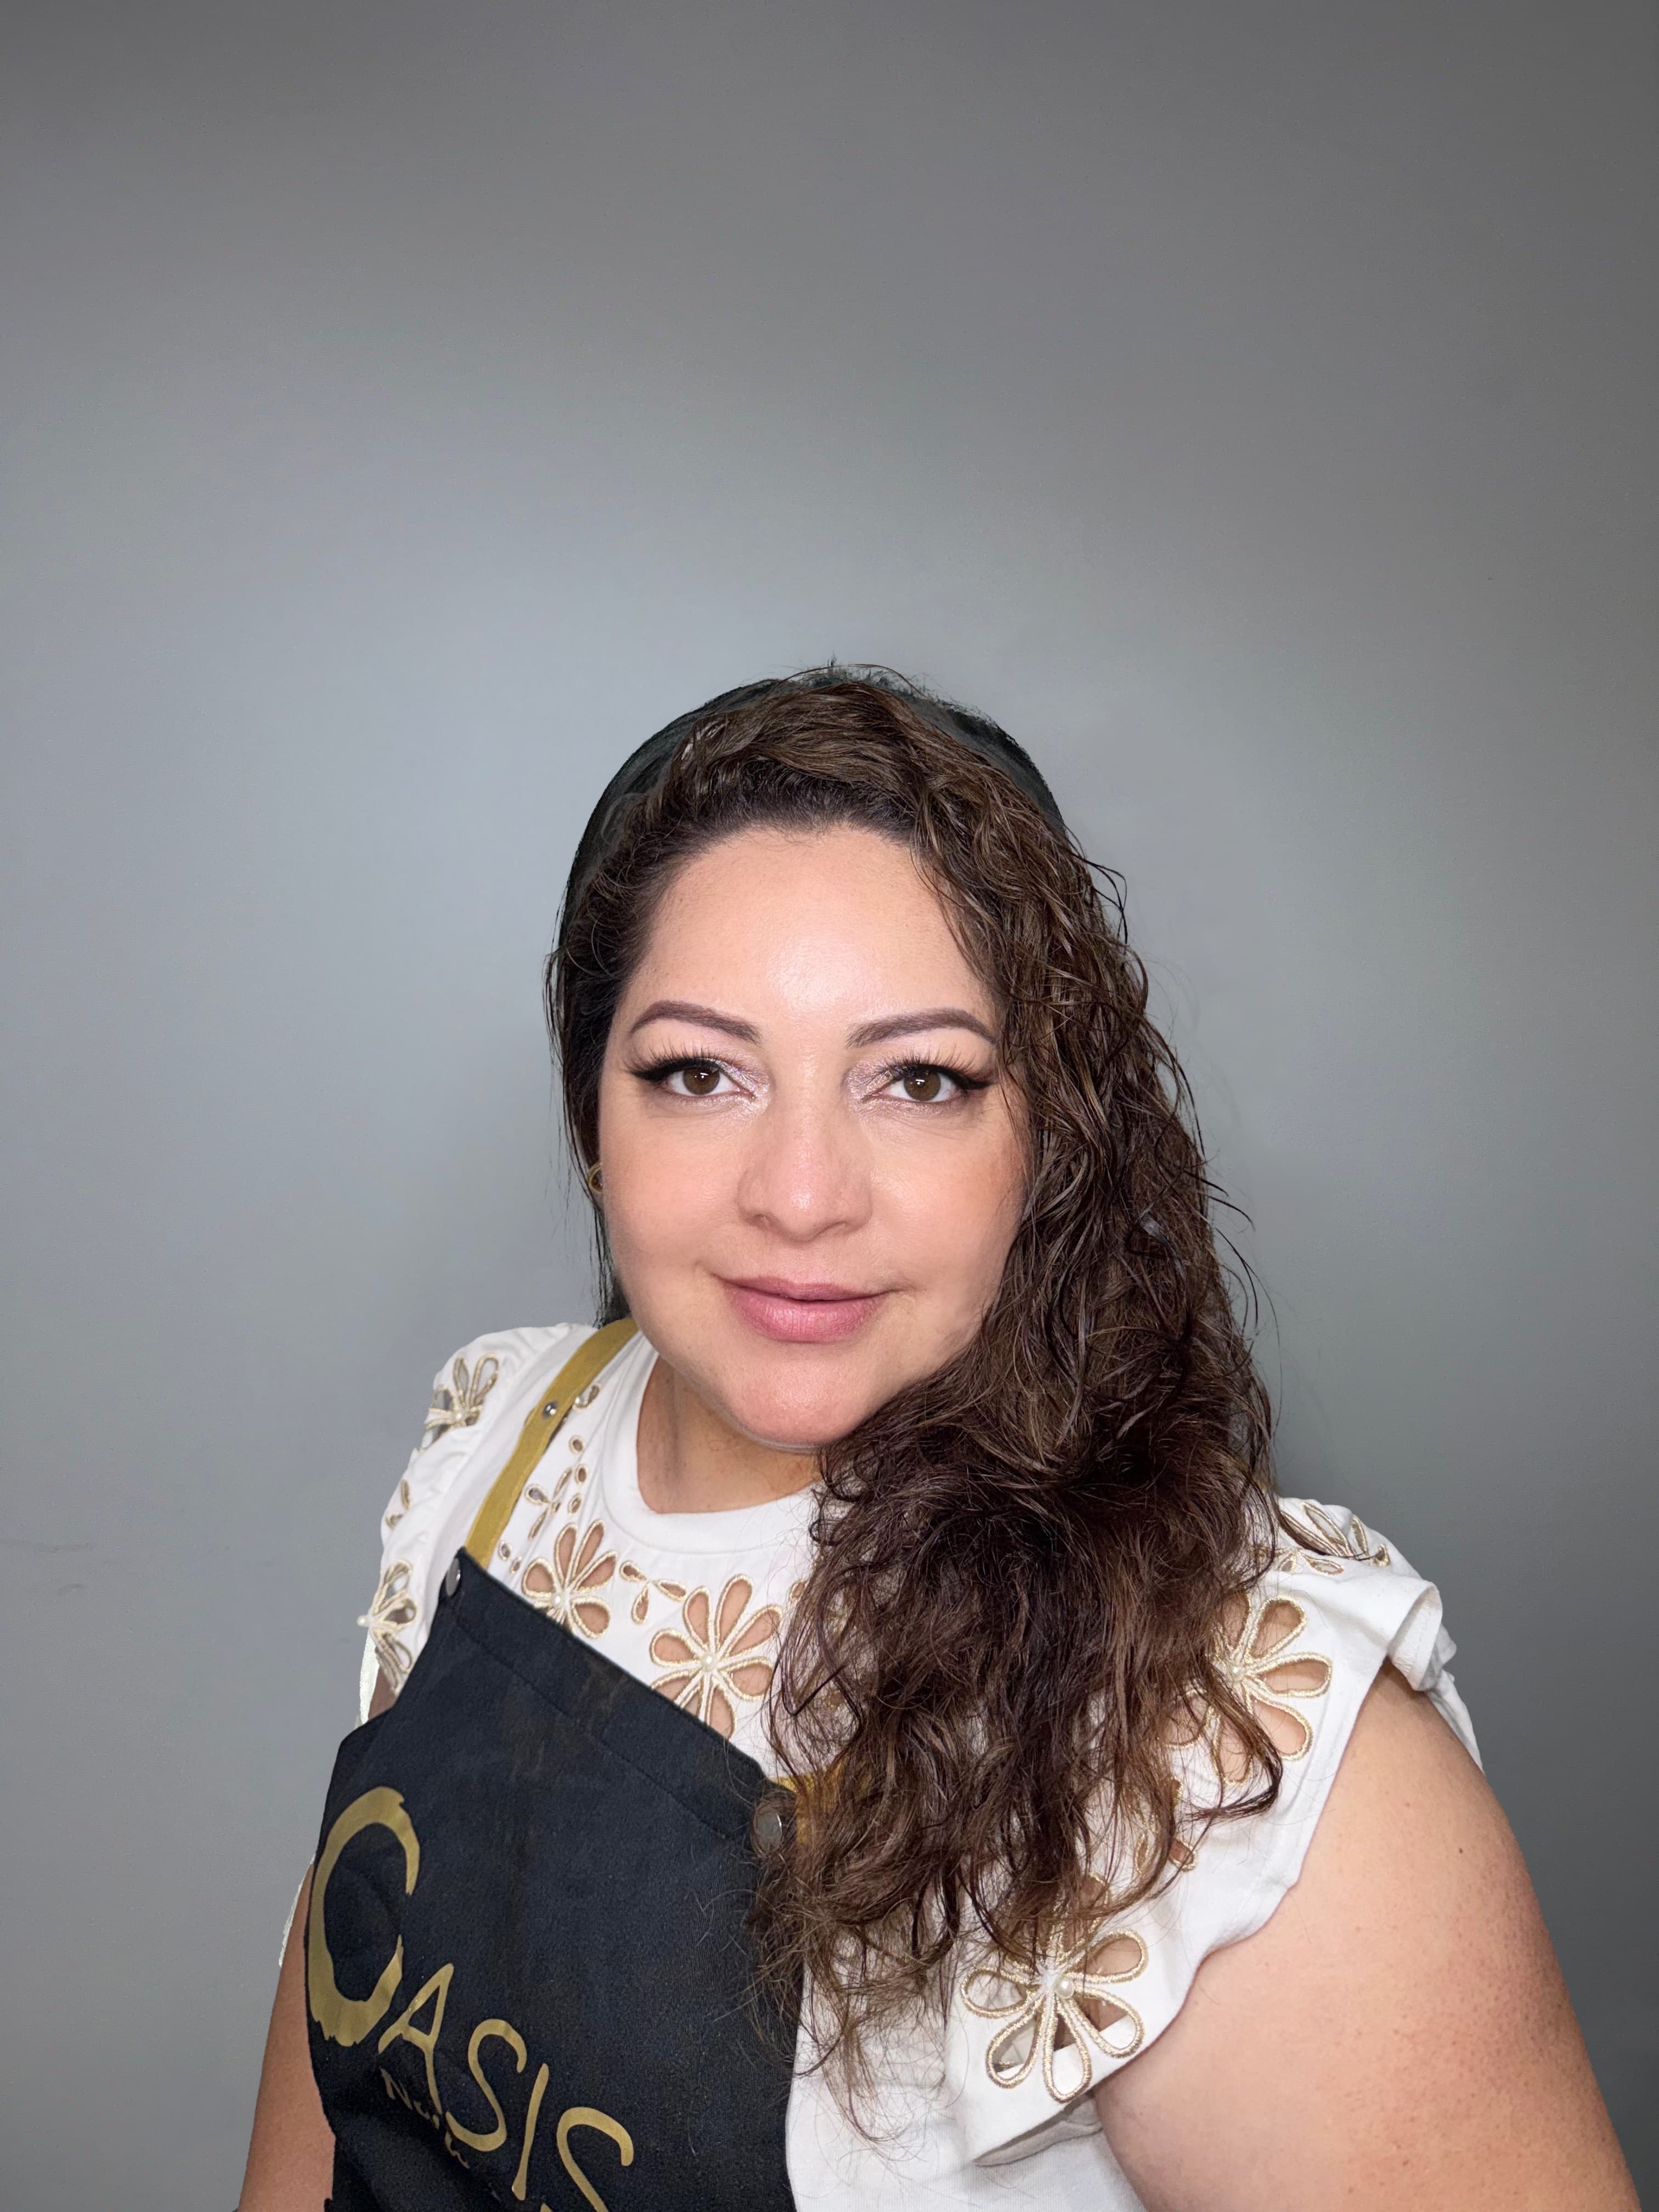
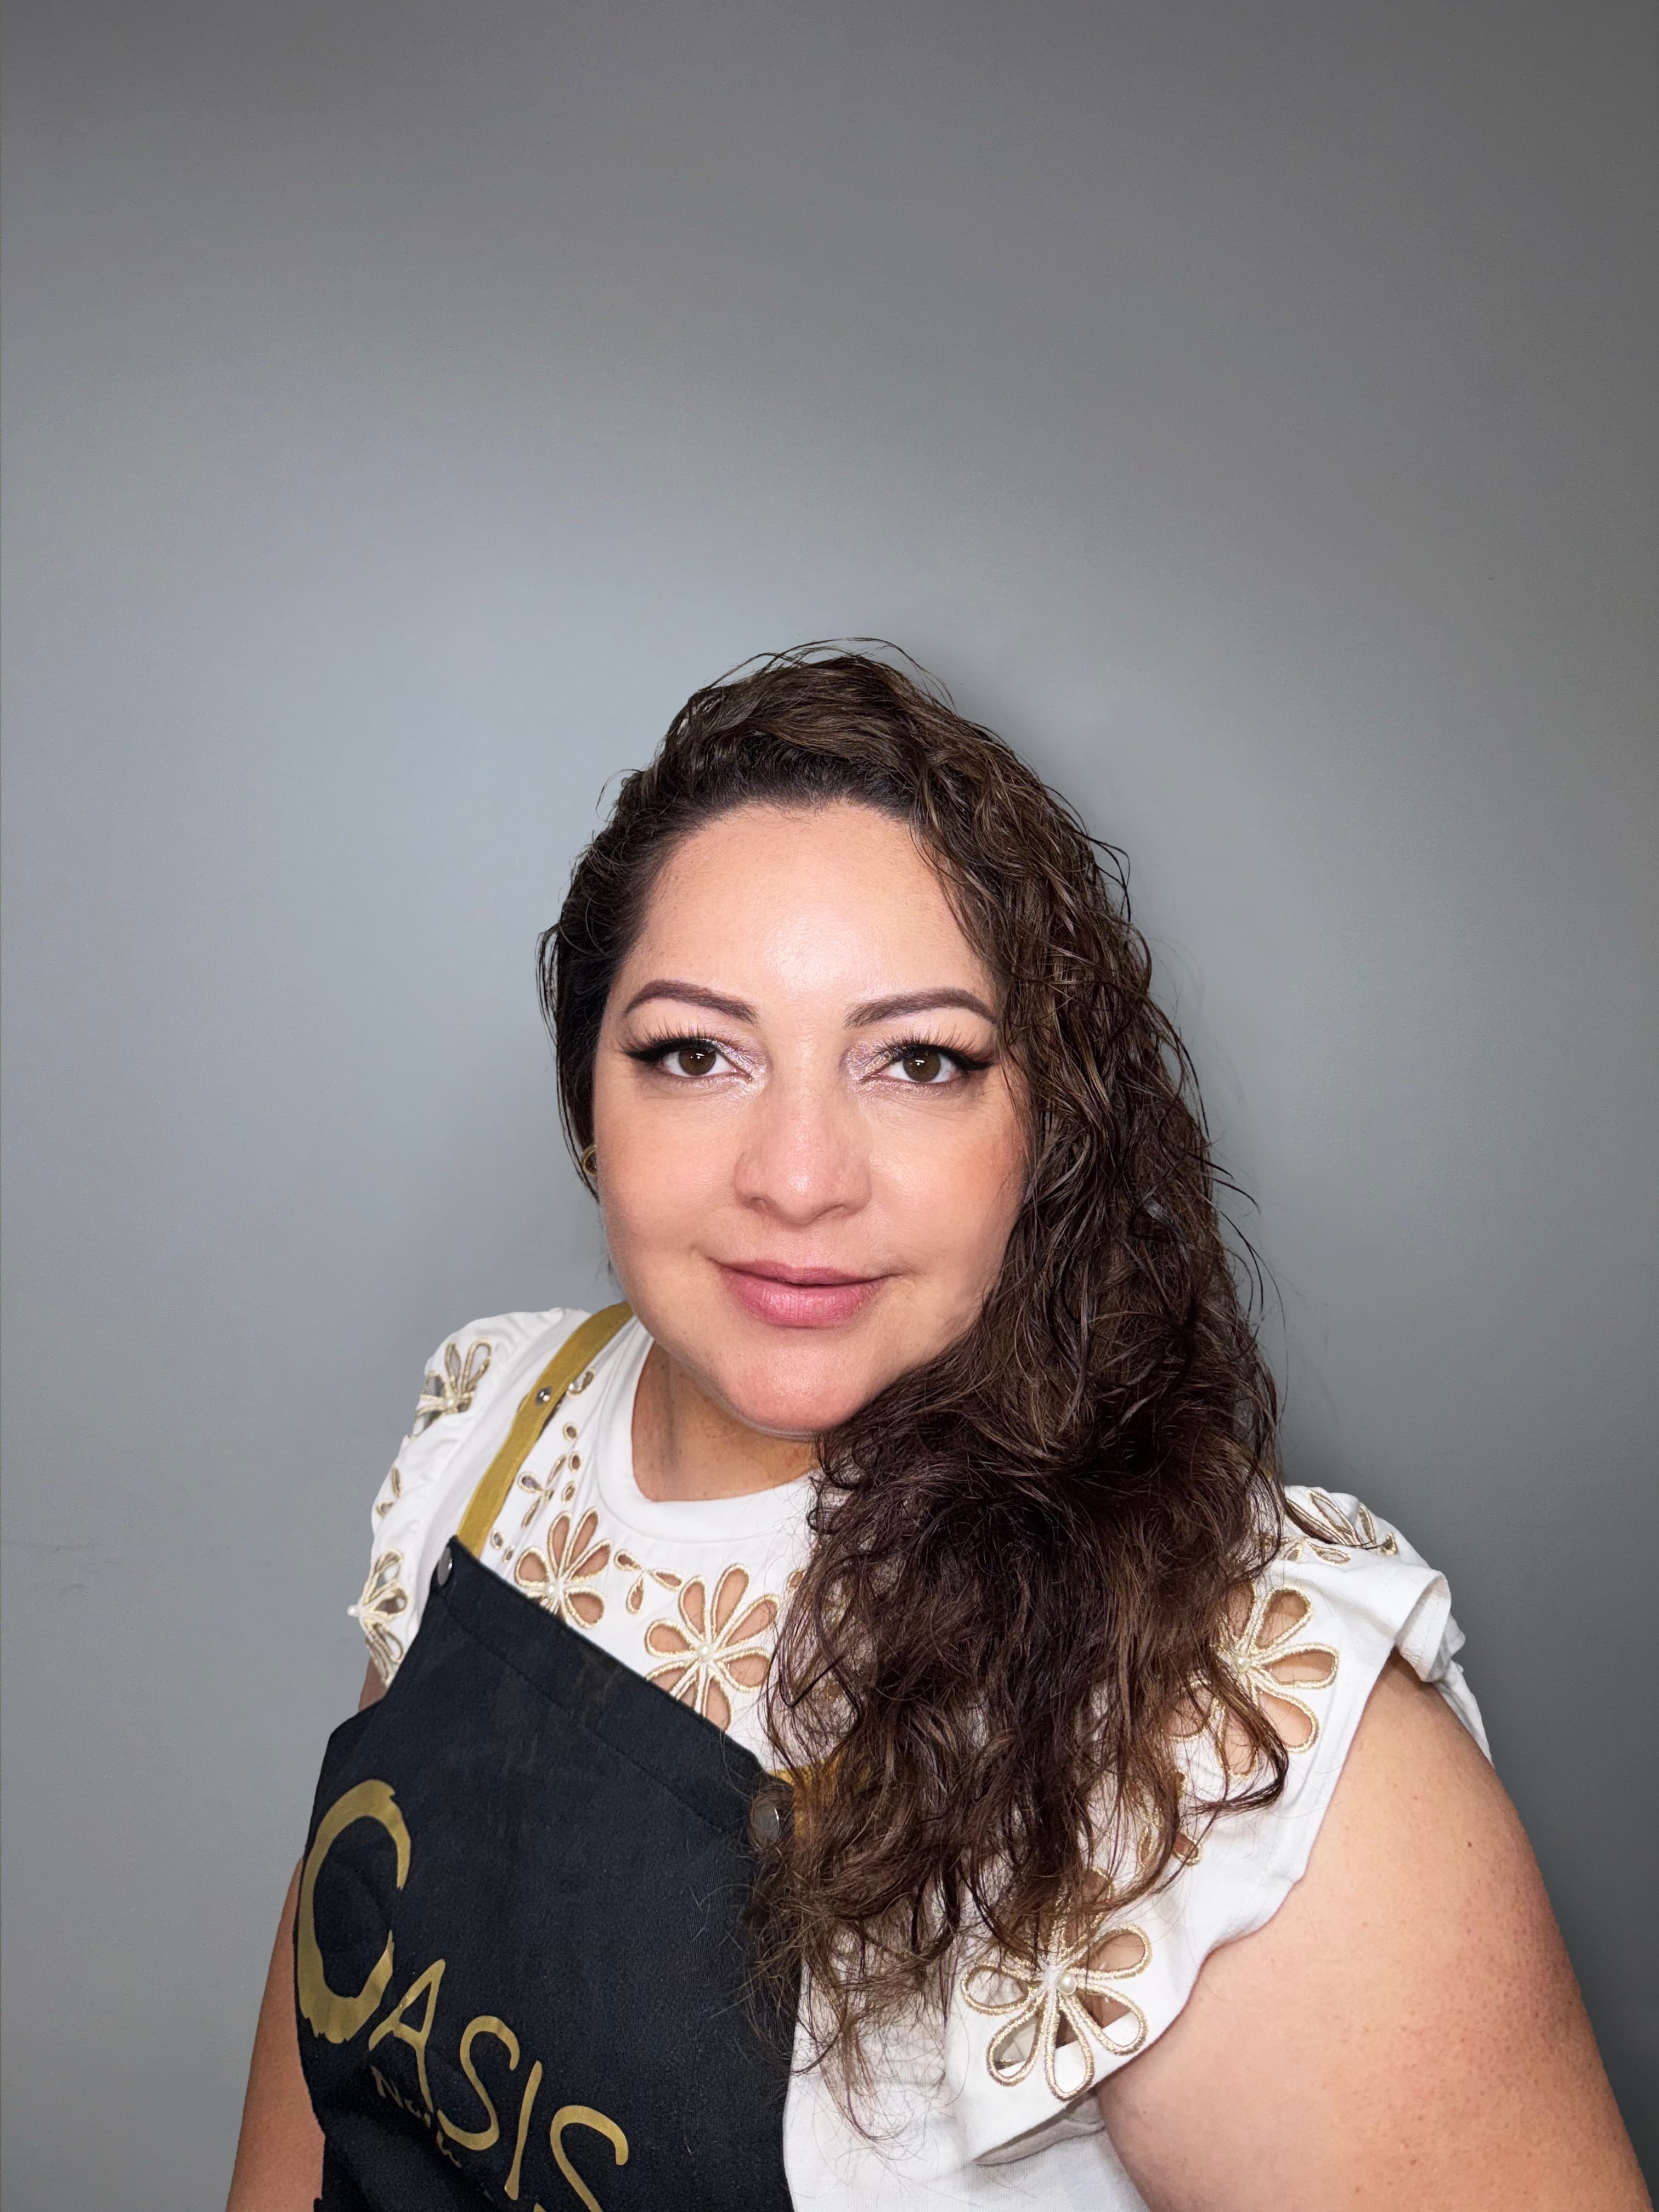
ran final checks before test hosting

diff --git a/oasis-nails-spa.html b/oasis-nails-spa.html
@@ -3,10 +3,10 @@
 <head>
 <meta charset="UTF-8">
 <meta name="viewport" content="width=device-width, initial-scale=1.0">
-<title>Oasis Nails & Spa - Raleigh's Premier Luxury Nail Studio</title>
-<meta name="description" content="Oasis Nails & Spa offers a curated luxury nail experience in Raleigh, NC. Book your gel manicure, spa pedicure, nail art, and more with our expert artists.">
+<title>Oasis Nails & Spa - Wake Forest's Premier Luxury Nail Studio</title>
+<meta name="description" content="Oasis Nails & Spa offers a curated luxury nail experience in Wake Forest, NC. Book your gel manicure, spa pedicure, nail art, and more with our expert artists.">
 <meta property="og:title" content="Oasis Nails & Spa">
-<meta property="og:description" content="Raleigh's premier luxury nail studio. Expert artists. Personalized service. Elevated experience.">
+<meta property="og:description" content="Wake Forest's premier luxury nail studio. Expert artists. Personalized service. Elevated experience.">
 <meta property="og:type" content="website">
 <link rel="preconnect" href="https://fonts.googleapis.com">
 <link rel="preconnect" href="https://fonts.gstatic.com" crossorigin>
@@ -296,6 +296,7 @@
 
   /* ── SECTIONS ── */
   section { padding: clamp(5rem, 10vw, 9rem) clamp(1.5rem, 5vw, 4rem); }
+  #home { padding: 0; }
   .section-inner { max-width: 1400px; margin: 0 auto; }
   .section-label {
     font-size: 0.6875rem;
@@ -555,6 +556,12 @@
     font-size: 0.6875rem; font-weight: 400; color: var(--stone);
     font-style: italic; margin-top: 0.2rem; grid-column: 1;
   }
+  .menu-category-note {
+    font-size: 0.75rem; font-weight: 400; color: var(--charcoal-light);
+    font-style: italic; line-height: 1.6;
+    background: var(--cream); border-left: 2px solid var(--nude);
+    padding: 0.65rem 0.9rem; margin-bottom: 1.5rem;
+  }
   .menu-item-right {
     display: flex; align-items: flex-start; justify-content: flex-end;
     padding-top: 0.1rem;
@@ -653,7 +660,6 @@
     text-transform: uppercase;
     color: var(--charcoal);
     text-decoration: none;
-    border-bottom: 1px solid var(--nude);
     padding-bottom: 2px;
     transition: border-color 0.2s;
     cursor: pointer;
@@ -1182,7 +1188,10 @@
   }
   .sticky-book button {
     width: 100%;
+    display: block;
+    text-align: center;
   }
+  .contact-address { font-style: normal; }
 
   /* ── MOBILE NAV ── */
   .mobile-menu {
@@ -1315,10 +1324,10 @@
 
 <!-- HERO -->
 <main>
-<section id="home" aria-label="Hero" style="padding:0;">
+<section id="home" aria-label="Hero">
   <div class="hero">
     <div class="hero-left">
-      <p class="hero-eyebrow">Raleigh, North Carolina</p>
+      <p class="hero-eyebrow">Wake Forest, North Carolina</p>
       <h1 class="hero-title">Where care becomes<br><em>an art form.</em></h1>
       <p class="hero-sub">A sanctuary for those who appreciate the quiet luxury of a nail experience that's been thoughtfully considered - from first visit to last detail.</p>
       <div class="hero-actions">
@@ -1330,7 +1339,7 @@
       </div>
     </div>
     <div class="hero-right" aria-label="Salon photography">
-      <img class="hero-img" src="Assets/temp nail polish pic.jpg" alt="Nail art at Oasis Nails &amp; Spa">
+      <img class="hero-img" src="Assets/temp nail polish pic.jpg" alt="Nail art at Oasis Nails &amp; Spa" fetchpriority="high">
       <div class="hero-caption">Oasis Nails & Spa</div>
     </div>
   </div>
@@ -1347,7 +1356,6 @@
     <span class="marquee-item">Acrylic Full Set <span class="marquee-dot"></span></span>
     <span class="marquee-item">Dip Powder <span class="marquee-dot"></span></span>
     <span class="marquee-item">Russian Manicure <span class="marquee-dot"></span></span>
-    <!-- Duplicate for seamless loop -->
     <span class="marquee-item">Gel Manicure <span class="marquee-dot"></span></span>
     <span class="marquee-item">Spa Pedicure <span class="marquee-dot"></span></span>
     <span class="marquee-item">Nail Art <span class="marquee-dot"></span></span>
@@ -1364,7 +1372,7 @@
   <div class="section-inner">
     <div class="about-grid">
       <div class="about-img-wrap reveal">
-        <img class="about-img" src="Assets/temp inside spa.jpg" alt="Interior of Oasis Nails &amp; Spa">
+        <img class="about-img" src="Assets/temp inside spa.jpg" alt="Interior of Oasis Nails &amp; Spa" loading="lazy">
       </div>
       <div class="about-text reveal reveal-delay-2">
         <p class="section-label">Our story</p>
@@ -1413,7 +1421,7 @@
         <article class="menu-cat-card" data-cat="0" data-photo role="button" tabindex="0"
                  aria-label="Explore Manicures menu" aria-expanded="false">
           <div class="menu-cat-bg menu-cat-bg-m" aria-hidden="true"></div>
-          <img class="menu-cat-img" src="Assets/manicure.jpg" alt="" aria-hidden="true">
+          <img class="menu-cat-img" src="Assets/manicure.jpg" alt="" aria-hidden="true" loading="lazy">
           <div class="menu-cat-content">
             <h3 class="menu-cat-name">Manicures</h3>
             <span class="menu-cat-hint">Tap to explore</span>
@@ -1422,7 +1430,7 @@
         <article class="menu-cat-card" data-cat="1" data-photo role="button" tabindex="0"
                  aria-label="Explore Pedicures menu" aria-expanded="false">
           <div class="menu-cat-bg menu-cat-bg-p" aria-hidden="true"></div>
-          <img class="menu-cat-img" src="Assets/pedicure.jpg" alt="" aria-hidden="true">
+          <img class="menu-cat-img" src="Assets/pedicure.jpg" alt="" aria-hidden="true" loading="lazy">
           <div class="menu-cat-content">
             <h3 class="menu-cat-name">Pedicures</h3>
             <span class="menu-cat-hint">Tap to explore</span>
@@ -1431,7 +1439,7 @@
         <article class="menu-cat-card" data-cat="2" data-photo role="button" tabindex="0"
                  aria-label="Explore Waxing menu" aria-expanded="false">
           <div class="menu-cat-bg menu-cat-bg-w" aria-hidden="true"></div>
-          <img class="menu-cat-img" src="Assets/waxing.jpg" alt="" aria-hidden="true">
+          <img class="menu-cat-img" src="Assets/waxing.jpg" alt="" aria-hidden="true" loading="lazy">
           <div class="menu-cat-content">
             <h3 class="menu-cat-name">Waxing</h3>
             <span class="menu-cat-hint">Tap to explore</span>
@@ -1567,7 +1575,7 @@
       <div class="carousel-dots" id="reviews-dots" aria-hidden="true"></div>
     </div>
     <div class="reviews-cta reveal">
-      <a href="https://www.google.com/search?q=Oasis+Nails+%26+Spa+Wake+Forest+Raleigh+reviews" target="_blank" rel="noopener" aria-label="Read all our reviews on Google">
+      <a href="https://www.google.com/search?q=Oasis+Nails+%26+Spa+Wake+Forest+Raleigh+reviews" target="_blank" rel="noopener noreferrer" aria-label="Read all our reviews on Google">
         Read all reviews on Google
         <svg width="13" height="13" fill="none" stroke="currentColor" stroke-width="1.5" viewBox="0 0 24 24" aria-hidden="true"><path stroke-linecap="round" stroke-linejoin="round" d="M13.5 6H5.25A2.25 2.25 0 003 8.25v10.5A2.25 2.25 0 005.25 21h10.5A2.25 2.25 0 0018 18.75V10.5m-10.5 6L21 3m0 0h-5.25M21 3v5.25"/></svg>
       </a>
@@ -1610,7 +1618,6 @@
     </div>
     <div class="contact-grid">
       <div class="contact-map reveal reveal-delay-1">
-        <!-- Replace src with your actual Google Maps embed URL -->
         <iframe
           title="Oasis Nails & Spa location map"
           src="https://www.google.com/maps/embed?pb=!1m18!1m12!1m3!1d6459.515151933187!2d-78.52911752336006!3d35.95289987250092!2m3!1f0!2f0!3f0!3m2!1i1024!2i768!4f13.1!3m3!1m2!1s0x89ac51f37a23cc9d%3A0xcac29ceeead2c24!2sOasis%20Nails%20%26%20Spa!5e0!3m2!1sen!2sus!4v1779568803574!5m2!1sen!2sus"
@@ -1623,10 +1630,10 @@
       <div class="contact-details reveal reveal-delay-2">
         <div class="contact-block">
           <p class="contact-block-title">Address</p>
-          <address class="contact-address" style="font-style:normal;">
-            <a href="https://www.google.com/maps/place/Oasis+Nails+%26+Spa/@35.9528999,-78.5291175,16z/data=!3m1!4b1!4m6!3m5!1s0x89ac51f37a23cc9d:0xcac29ceeead2c24!8m2!3d35.9528999!4d-78.5265426!16s%2Fg%2F11fkldvrgk?entry=ttu&g_ep=EgoyMDI2MDUyMC4wIKXMDSoASAFQAw%3D%3D" target="_blank" rel="noopener">
-              2808 Rogers Rd #103, Wake Forest,<br>
-              Raleigh, NC 27587
+          <address class="contact-address">
+            <a href="https://www.google.com/maps/place/Oasis+Nails+%26+Spa/@35.9528999,-78.5291175,16z/data=!3m1!4b1!4m6!3m5!1s0x89ac51f37a23cc9d:0xcac29ceeead2c24!8m2!3d35.9528999!4d-78.5265426!16s%2Fg%2F11fkldvrgk?entry=ttu&g_ep=EgoyMDI2MDUyMC4wIKXMDSoASAFQAw%3D%3D" target="_blank" rel="noopener noreferrer" aria-label="Get directions to Oasis Nails &amp; Spa">
+              2808 Rogers Rd, Suite 103<br>
+              Wake Forest, NC 27587
             </a>
           </address>
         </div>
@@ -1645,7 +1652,7 @@
         <div class="contact-block">
           <p class="contact-block-title">Socials</p>
           <div class="social-links">
-            <a href="https://www.instagram.com/oasisnailsandspa_wakeforest/" target="_blank" rel="noopener" class="social-link" aria-label="Follow us on Instagram">Instagram</a>
+            <a href="https://www.instagram.com/oasisnailsandspa_wakeforest/" target="_blank" rel="noopener noreferrer" class="social-link" aria-label="Follow us on Instagram">Instagram</a>
           </div>
         </div>
       </div>
@@ -1658,7 +1665,7 @@
 <footer role="contentinfo">
   <div class="footer-inner">
     <a href="#" class="footer-logo">Oasis <span>Nails & Spa</span></a>
-    <p class="footer-copy">© 2025 Oasis Nails & Spa · Raleigh, NC</p>
+    <p class="footer-copy">© 2026 Oasis Nails & Spa · Wake Forest, NC</p>
     <ul class="footer-links" role="list">
       <li><a href="#policy">Booking Policy</a></li>
       <li><a href="mailto:[email redacted]">Contact</a></li>
@@ -1668,7 +1675,7 @@
 
 <!-- STICKY MOBILE BOOK -->
 <div class="sticky-book" aria-label="Mobile booking button">
-  <button class="btn-primary" onclick="openBooking(null)" style="width:100%; display:block; text-align:center;">
+  <button class="btn-primary" onclick="openBooking(null)">
     Book Appointment
   </button>
 </div>
@@ -1748,7 +1755,11 @@
   });
 
   document.addEventListener('keydown', function(e) {
-    if (e.key === 'Escape') closeBooking();
+    if (e.key === 'Escape') {
+      const backdrop = document.getElementById('modal-backdrop');
+      if (!backdrop.classList.contains('open')) return;
+      closeBooking();
+    }
   });
 
   // Interactive services menu
@@ -1804,14 +1815,15 @@
               { name: 'Gel Polish Change Hands',           desc: '',                  price: '$30–$35' },
               { name: 'Regular Polish Change Hands',       desc: '',                  price: '$13' },
               { name: 'French Art Gel',                    desc: 'Dip $10+',          price: '$10+' },
-              { name: 'Cut Cuticle Only With Nails Service', desc: '',               price: '$10' },
+              { name: 'Cut Cuticle Only With Nails Service', desc: '',                price: '$10' },
               { name: 'Take Off Without The Service',      desc: '',                  price: '$15' },
               { name: 'Paraffin Wax',                      desc: '',                  price: '$8' },
               { name: 'Voesh Socks',                       desc: '',                  price: '$10' },
               { name: 'Gel Polish Change Toes',            desc: '',                  price: '$30–$35' },
               { name: 'Regular Polish Change Toes',        desc: '',                  price: '$15' },
               { name: 'Massage Add-on',                    desc: '',                  price: '$7' },
-              { name: 'Buff Shine',                        desc: 'Per 5 Minutes',     price: '$6' }
+              { name: 'Buff Shine',                        desc: 'Per 5 Minutes',     price: '$6' },
+              { name: 'Cateye',                            desc: '',                  price: '$10' }
             ]
           },
           {
@@ -1939,6 +1951,9 @@
         });
         html += '</div>';
       } else {
+        if (idx === 1) {
+          html += '<p class="menu-category-note">All manicure services, add-ons, and extras are also available with any pedicure. See the Manicures tab for the full list.</p>';
+        }
         cat.groups.forEach(function(g) { html += renderGroup(g); });
       }
       detailBody.setAttribute('data-cat', idx);
@@ -2002,6 +2017,7 @@
     entries.forEach(e => { if (e.isIntersecting) { e.target.classList.add('visible'); observer.unobserve(e.target); } });
   }, { threshold: 0.12, rootMargin: '0px 0px -40px 0px' });
   document.querySelectorAll('.reveal').forEach(el => observer.observe(el));
+  window.addEventListener('pagehide', function() { observer.disconnect(); }, { once: true });
 
   // Artist Carousel
   function initCarousel() {